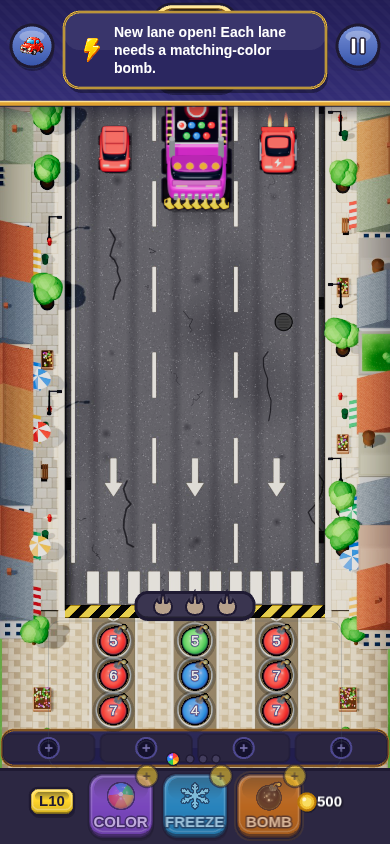
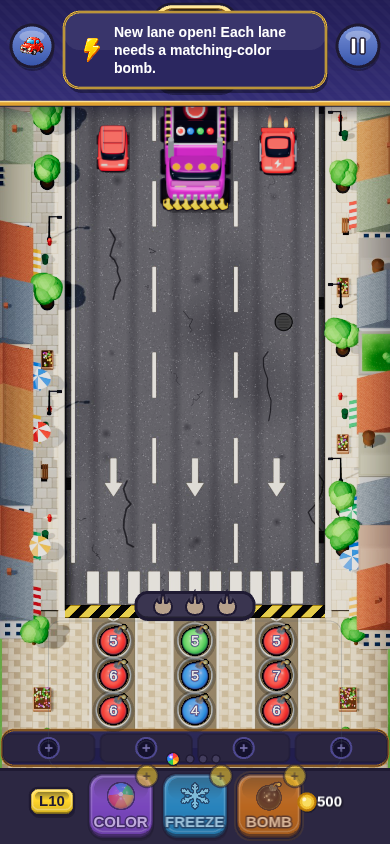
Bosses advance every turn with shorter sequences on the 8-row lane
Owner play of L10: boss skipped turns and read as broken. moveEvery 1 on
L10/20/30/40; sequences L10 4, L20 2 (armored 0.20), L30 4, L40 2+2.
Sim 40/52/43/49 percent. Test pins moveEvery and sequence ordering.

Claude-Session: https://claude.ai/code/session_012UWBQSfsaUD3YDCf6dWPs3

diff --git a/src/game/LevelManager.js b/src/game/LevelManager.js
@@ -21,7 +21,7 @@
 //
 // Bosses (L10/20/30/40) are real vehicles with a colour sequence on the roof —
 // see TrafficRules.makeBoss. Goal: defeatBoss. Each has its own twist:
-//   L10 The Hauler        — learn the sequence; slow (a row every 2 turns)
+//   L10 The Hauler        — learn the sequence; short, and it steps forward every turn
 //   L20 Iron Hauler       — re-plates after every light: any bomb, then the colour
 //   L30 Chameleon King    — a long sequence while speeders flank it
 //   L40 Twin Titans       — two bosses at once, one of them armoured
@@ -87,15 +87,15 @@ const PROGRESSION = [
     traits: { speeder: 0.10 },
     goals: [{ type: 'destroyColor', color: 'Blue', count: 5 }, { type: 'destroyColor', color: 'Green', count: 5 }] },
 
-  // L10 BOSS "The Hauler": a giant truck with a 6-colour sequence in the middle
-  // lane, moving a row every 2 turns. Hit it in order while the side lanes keep
+  // L10 BOSS "The Hauler": a giant truck with a 4-colour sequence in the middle
+  // lane, advancing a row every turn. Hit it in order while the side lanes keep
   // coming — the lesson is splitting bombs between the boss and the traffic.
   { id: 10, name: 'The Hauler', laneCount: 3, colCount: 3, colors: ['Red', 'Blue', 'Green'], worldConfig: W(1),
     duration: 110, spawnBudget: 12, laneTargetCarCount: 3, gridRows: 8,
     traits: { speeder: 0.08 },
     hintText: 'BOSS! Hit the boss with the colours on its roof, in order',
     initialCars: [...open(0, 2),
-      { lane: 1, row: 1, sequence: ['Red', 'Blue', 'Green', 'Red', 'Green', 'Blue', 'Red'], moveEvery: 2 }],
+      { lane: 1, row: 1, sequence: ['Red', 'Blue', 'Green', 'Red'], moveEvery: 1 }],
     goals: boss },
 
   // L11 "Steel plates": ARMOURED cars — any bomb knocks the plates off.
@@ -156,10 +156,10 @@ const PROGRESSION = [
   // bombs — any colour, then the right one. Armoured escorts in the side lanes.
   { id: 20, name: 'Iron Hauler', laneCount: 3, colCount: 3, colors: ['Red', 'Blue', 'Green', 'Yellow'], worldConfig: W(0),
     duration: 110, spawnBudget: 16, laneTargetCarCount: 2, gridRows: 8,
-    traits: { armored: 0.12 },
+    traits: { armored: 0.20 },
     hintText: 'BOSS! Its armour grows back after every light',
     initialCars: [...open(0, 2),
-      { lane: 1, row: 1, sequence: ['Yellow', 'Red', 'Blue', 'Green'], moveEvery: 2, reArmor: true }],
+      { lane: 1, row: 1, sequence: ['Yellow', 'Red'], moveEvery: 1, reArmor: true }],
     goals: boss },
 
   // L21 "Night shift" (relief).
@@ -216,7 +216,7 @@ const PROGRESSION = [
     traits: { speeder: 0.18 },
     hintText: 'BOSS! A long sequence — and speeders on both sides',
     initialCars: [...open(0, 2),
-      { lane: 1, row: 1, sequence: ['Purple', 'Yellow', 'Red', 'Blue', 'Purple', 'Red', 'Yellow', 'Blue'], moveEvery: 2 }],
+      { lane: 1, row: 1, sequence: ['Purple', 'Yellow', 'Red', 'Blue'], moveEvery: 1 }],
     goals: boss },
 
   // ═══ WORLD 3 — The Highway (L31-40) ════════════════════════════════════════
@@ -269,14 +269,14 @@ const PROGRESSION = [
     traits: { speeder: 0.12, armored: 0.12, chameleon: 0.12 }, goals: total(20) },
 
   // L40 BOSS "Twin Titans": two bosses, one armoured, with only the middle lane
-  // of ordinary traffic between them. They move a row every 3 turns.
+  // of ordinary traffic between them. They advance a row every turn (2 lights each).
   { id: 40, name: 'Twin Titans', laneCount: 3, colCount: 3, colors: ['Red', 'Blue', 'Yellow', 'Orange'], worldConfig: W(0),
     duration: 120, spawnBudget: 24, laneTargetCarCount: 2, gridRows: 8,
     traits: { speeder: 0.06, chameleon: 0.06 },
     hintText: 'BOSS! Two titans — keep both in check',
     initialCars: [...open(1),
-      { lane: 0, row: 1, sequence: ['Orange', 'Red', 'Blue', 'Yellow', 'Orange', 'Red'], moveEvery: 3 },
-      { lane: 2, row: 1, sequence: ['Blue', 'Yellow', 'Orange', 'Red', 'Blue'], moveEvery: 3, reArmor: true }],
+      { lane: 0, row: 1, sequence: ['Orange', 'Red'], moveEvery: 1 },
+      { lane: 2, row: 0, sequence: ['Blue', 'Yellow'], moveEvery: 1, reArmor: true }],
     goals: [{ type: 'defeatBoss', count: 2 }] },
 
   // ═══ WORLDS 3-7 continue in LateLevels.js (L41-L100) ═══════════════════════

diff --git a/tests/boss-infra.test.js b/tests/boss-infra.test.js
@@ -225,11 +225,18 @@ describe('V2 boss vehicles: each boss level carries its designed twist', () => {
     expect(bosses(cfgOf(20))[0].reArmor).toBe(true);
   });
 
-  it('L30 "Chameleon King" is the longest single sequence and is flanked by speeders', () => {
+  it('L30 "Chameleon King" is no shorter than the L10 sequence and is flanked by speeders', () => {
     const cfg = cfgOf(30);
     const len = bosses(cfg)[0].sequence.length;
-    for (const id of [10, 20]) expect(len).toBeGreaterThan(bosses(cfgOf(id))[0].sequence.length);
+    expect(len).toBeGreaterThanOrEqual(bosses(cfgOf(10))[0].sequence.length);
+    expect(len).toBeGreaterThan(bosses(cfgOf(20))[0].sequence.length);
     expect(cfg.traits?.speeder).toBeGreaterThan(0);
+  });
+
+  it('every boss advances a row on every turn (2026-10-09: players read skipped turns as a bug)', () => {
+    for (const id of [10, 20, 30, 40]) {
+      for (const b of bosses(cfgOf(id))) expect(b.moveEvery, `L${id}`).toBe(1);
+    }
   });
 
   it('L40 "Twin Titans" fields two bosses, one of them armoured', () => {

diff --git a/CLAUDE.md b/CLAUDE.md
@@ -294,7 +294,7 @@ Always `${import.meta.env.BASE_URL}sprites/...`. Hardcoded `/sprites/...` causes
 ## 6. Current State
 
 ### Tests
-**1523 passing**, 1 skipped, 5 todo — 81 files (+2 skipped). Run: `npx vitest run`. All headless (no
+**1530 passing**, 1 skipped, 5 todo — 81 files (+2 skipped). Run: `npx vitest run`. All headless (no
 render tests).
 Visual smoke (`npm run test:visual`, Playwright) is separate and is a blocking CI gate.
 
@@ -895,3 +895,5 @@ the current source-of-truth summary.*
 *2026-10-03 subsystem review: input pointer ownership + `DragDrop.cancel()`, frozen-board refill/reveal in `_advanceGrid`, booster spend settled by USE, weekly key = `W${rawWeekIndex()}`, audio buses `_out`/`_master`/`_musicGain` (tutorial ding via `audio.play`), `ProgressManager._load` type sanitiser, L4 bench unlock marked on first bench-store, reduced motion gates flash/chroma. Tests: `game-loop-edge-cases`, `input-manager`, `progress-load-hardening`, `weekly-key`.*
 
 *Last updated: 2026-10-03 (previous: 2026-10-01 — levels 41-100, worlds 4-7, traits, economy and settings brought up to date.*)
+
+*2026-10-09 boss pass (owner device play of L10): every boss now advances EVERY turn (`moveEvery: 1`, pinned by `boss-infra.test.js`) on the unchanged 8-row lane (longer lanes shrink cars). Sequences shortened to fit: L10 4 lights, L20 2 + armored 0.20, L30 4, L40 2+2 (armoured titan row 0, plain row 1); sim 40/52/43/49%. COLOR CHANGE on a boss rewrites its CURRENT light (`GameLoop.changeBossColor`, picker flow in GameApp). Preview artifact has an on-page gate with an unlock-to-L40 button (`scripts/build-preview.sh`). Bosses must be re-played on device. Open clarity ideas not built: glow on matching bombs, move countdown, per-light hit pop, guaranteed boss-colour bomb.*
